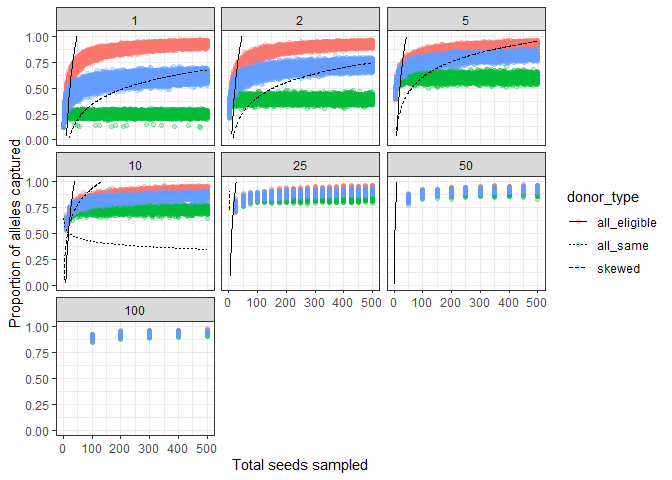
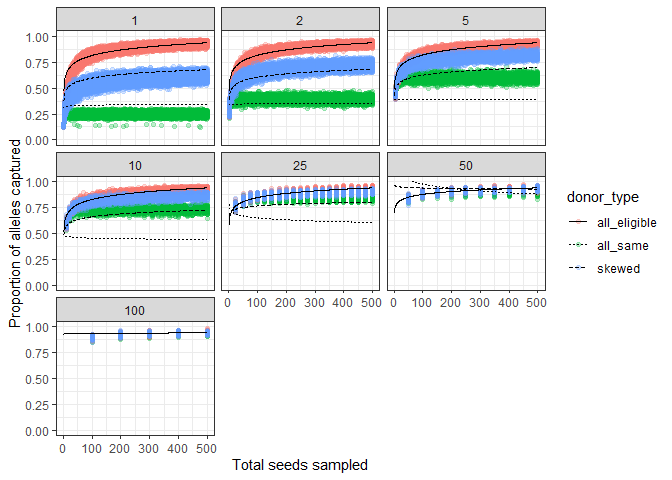
working on GLM, updating figures

diff --git a/R-scripts/data_analysis/transformed_model.md b/R-scripts/data_analysis/transformed_model.md
@@ -4,7 +4,15 @@
 library(rstanarm)
 ```
 
+    ## Warning: package 'rstanarm' was built under R version 4.0.5
+
     ## Loading required package: Rcpp
+
+    ## Warning: replacing previous import 'lifecycle::last_warnings' by
+    ## 'rlang::last_warnings' when loading 'tibble'
+
+    ## Warning: replacing previous import 'lifecycle::last_warnings' by
+    ## 'rlang::last_warnings' when loading 'pillar'
 
     ## This is rstanarm version 2.21.3
 
@@ -21,6 +29,8 @@ options(mc.cores = parallel::detectCores())
 library(dplyr)
 ```
 
+    ## Warning: package 'dplyr' was built under R version 4.0.5
+
     ## 
     ## Attaching package: 'dplyr'
 
@@ -34,7 +44,17 @@ library(dplyr)
 
 ``` r
 library(tidyr)
+```
+
+    ## Warning: package 'tidyr' was built under R version 4.0.5
+
+``` r
 library(ggplot2)
+```
+
+    ## Warning: package 'ggplot2' was built under R version 4.0.5
+
+``` r
 theme_set(theme_bw())
 
 source("hpdi.R")
@@ -50,12 +70,7 @@ tidy_df$total_seeds = as.numeric(tidy_df$total_seeds)
 tidy_df$maternal_trees = as.numeric(tidy_df$maternal_trees)
 #Running the model
 transformed_model = glm(prop_capt ~ log(total_seeds) * maternal_trees * donor_type,
-                          weights=total_seeds, family = binomial(link='logit'), data = tidy_df)
-```
-
-    ## Warning in eval(family$initialize): non-integer #successes in a binomial glm!
-
-``` r
+                          weights=total_seeds, data = tidy_df)
 # #Save the model since it takes so long to run
 save(transformed_model, file = "transformed_model.Rdata")
 #Load the model from previously saved run
@@ -67,50 +82,49 @@ summary(transformed_model, digits = 4)
     ## 
     ## Call:
     ## glm(formula = prop_capt ~ log(total_seeds) * maternal_trees * 
-    ##     donor_type, family = binomial(link = "logit"), data = tidy_df, 
-    ##     weights = total_seeds)
+    ##     donor_type, data = tidy_df, weights = total_seeds)
     ## 
     ## Deviance Residuals: 
     ##      Min        1Q    Median        3Q       Max  
-    ## -28.9175   -1.4151   -0.1883    1.0569   11.1638  
+    ## -11.6722   -0.7678   -0.0784    0.4258    8.1515  
     ## 
     ## Coefficients:
     ##                                                      Estimate Std. Error
-    ## (Intercept)                                        -1.5952723  0.0097853
-    ## log(total_seeds)                                    0.6690339  0.0017414
-    ## maternal_trees                                      0.0319706  0.0012266
-    ## donor_typeall_same                                  0.5632364  0.0134966
-    ## donor_typeskewed                                    0.9318726  0.0129512
-    ## log(total_seeds):maternal_trees                    -0.0048363  0.0002135
-    ## log(total_seeds):donor_typeall_same                -0.6489173  0.0023768
-    ## log(total_seeds):donor_typeskewed                  -0.4647758  0.0022867
-    ## maternal_trees:donor_typeall_same                   0.1353492  0.0026443
-    ## maternal_trees:donor_typeskewed                     0.0233368  0.0023228
-    ## log(total_seeds):maternal_trees:donor_typeall_same -0.0019413  0.0004588
-    ## log(total_seeds):maternal_trees:donor_typeskewed    0.0070384  0.0004057
-    ##                                                     z value Pr(>|z|)    
-    ## (Intercept)                                        -163.027  < 2e-16 ***
-    ## log(total_seeds)                                    384.193  < 2e-16 ***
-    ## maternal_trees                                       26.065  < 2e-16 ***
-    ## donor_typeall_same                                   41.732  < 2e-16 ***
-    ## donor_typeskewed                                     71.953  < 2e-16 ***
-    ## log(total_seeds):maternal_trees                     -22.653  < 2e-16 ***
-    ## log(total_seeds):donor_typeall_same                -273.024  < 2e-16 ***
-    ## log(total_seeds):donor_typeskewed                  -203.253  < 2e-16 ***
-    ## maternal_trees:donor_typeall_same                    51.184  < 2e-16 ***
-    ## maternal_trees:donor_typeskewed                      10.047  < 2e-16 ***
-    ## log(total_seeds):maternal_trees:donor_typeall_same   -4.231 2.33e-05 ***
-    ## log(total_seeds):maternal_trees:donor_typeskewed     17.348  < 2e-16 ***
+    ## (Intercept)                                         4.587e-01  5.168e-03
+    ## log(total_seeds)                                    7.697e-02  8.998e-04
+    ## maternal_trees                                      4.689e-03  5.205e-04
+    ## donor_typeall_same                                 -1.619e-01  7.309e-03
+    ## donor_typeskewed                                   -1.047e-01  7.309e-03
+    ## log(total_seeds):maternal_trees                    -7.531e-04  8.954e-05
+    ## log(total_seeds):donor_typeall_same                -7.145e-02  1.273e-03
+    ## log(total_seeds):donor_typeskewed                  -2.583e-02  1.273e-03
+    ## maternal_trees:donor_typeall_same                   1.440e-02  7.361e-04
+    ## maternal_trees:donor_typeskewed                     7.523e-03  7.361e-04
+    ## log(total_seeds):maternal_trees:donor_typeall_same -5.627e-04  1.266e-04
+    ## log(total_seeds):maternal_trees:donor_typeskewed   -3.944e-04  1.266e-04
+    ##                                                    t value Pr(>|t|)    
+    ## (Intercept)                                         88.750  < 2e-16 ***
+    ## log(total_seeds)                                    85.539  < 2e-16 ***
+    ## maternal_trees                                       9.008  < 2e-16 ***
+    ## donor_typeall_same                                 -22.150  < 2e-16 ***
+    ## donor_typeskewed                                   -14.327  < 2e-16 ***
+    ## log(total_seeds):maternal_trees                     -8.411  < 2e-16 ***
+    ## log(total_seeds):donor_typeall_same                -56.145  < 2e-16 ***
+    ## log(total_seeds):donor_typeskewed                  -20.299  < 2e-16 ***
+    ## maternal_trees:donor_typeall_same                   19.560  < 2e-16 ***
+    ## maternal_trees:donor_typeskewed                     10.220  < 2e-16 ***
+    ## log(total_seeds):maternal_trees:donor_typeall_same  -4.443 8.87e-06 ***
+    ## log(total_seeds):maternal_trees:donor_typeskewed    -3.115  0.00184 ** 
     ## ---
     ## Signif. codes:  0 '***' 0.001 '**' 0.01 '*' 0.05 '.' 0.1 ' ' 1
     ## 
-    ## (Dispersion parameter for binomial family taken to be 1)
+    ## (Dispersion parameter for gaussian family taken to be 2.047454)
     ## 
-    ##     Null deviance: 10031191  on 140249  degrees of freedom
-    ## Residual deviance:   872445  on 140238  degrees of freedom
-    ## AIC: 1612659
+    ##     Null deviance: 2145942  on 140249  degrees of freedom
+    ## Residual deviance:  287131  on 140238  degrees of freedom
+    ## AIC: -235827
     ## 
-    ## Number of Fisher Scoring iterations: 6
+    ## Number of Fisher Scoring iterations: 2
 
 ``` r
 #Creating a new dataframe of values to base predictions on 
@@ -131,6 +145,6 @@ ggplot(data=preds) +
     xlab("Total seeds sampled")
 ```
 
-    ## Warning: Removed 5517 row(s) containing missing values (geom_path).
+    ## Warning: Removed 1000 row(s) containing missing values (geom_path).
 
 ![](transformed_model_files/figure-gfm/unnamed-chunk-3-1.png)<!-- -->
